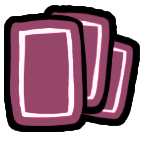
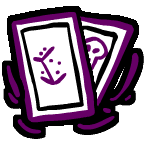
Rename Pope abilities to Cream Cake/Sanctify
Rename in-game Pope terminology and UI from canonize/Judgement/Divine Judgement to Give Cream Cake/Sanctify/Sanctified across code and locale files. Update button labels, modifier name, judgement system messages, task/animation names, emergency block text, and wiki/option strings in en_US and pl_PL. Also: adjust Sage role icon load size (70 -> 200), fix Joker clone button sprite reference, tweak Loner tab markup, add README credit entries (Pope icon & Sanctify button, Tarot asset), and update several image assets.

diff --git a/TouMegaChujoweExtension/Modules/PopeJudgementTask.cs b/TouMegaChujoweExtension/Modules/PopeJudgementTask.cs
@@ -137,7 +137,7 @@ public sealed class PopeJudgementTask(nint cppPtr) : PlayerTask(cppPtr)
 
                     if (deathAnim != null)
                     {
-                        deathAnim.name = "Judgement Animation";
+                        deathAnim.name = "Sanctify Animation";
                         deathAnim.SetActive(false);
                         var deathRend = deathAnim.GetComponent<SpriteRenderer>();
                         deathRend.color = new Color(0f, 0f, 0f, 0.17254903f);
@@ -207,16 +207,16 @@ public sealed class PopeJudgementTask(nint cppPtr) : PlayerTask(cppPtr)
             color = _even ? new Color(0.8f, 0.68f, 0f) : Color.white;
         }
 
-        var text = "Divine Judgement has been triggered!";
+        var text = "Sanctify has been triggered!";
         switch (_sabotage.Stage)
         {
             case PopeJudgementStage.Initiate:
                 text =
-                    $"The Pope is unleashing Divine Judgement!\n{(int)_sabotage.TimeRemaining + 1 + (int)PopeJudgementSystem.ConfiguredDuration} seconds left!";
+                    $"The Pope is unleashing Sanctify!\n{(int)_sabotage.TimeRemaining + 1 + (int)PopeJudgementSystem.ConfiguredDuration} seconds left!";
                 break;
             case PopeJudgementStage.Countdown:
                 text =
-                    $"The Pope is unleashing Divine Judgement!\n{(int)_sabotage.TimeRemaining + 1} seconds left!";
+                    $"The Pope is unleashing Sanctify!\n{(int)_sabotage.TimeRemaining + 1} seconds left!";
                 break;
             case PopeJudgementStage.PopeDead:
                 color = Palette.CrewmateBlue;

diff --git a/TouMegaChujoweExtension/Assets/TouExtensionIcons.cs b/TouMegaChujoweExtension/Assets/TouExtensionIcons.cs
@@ -14,7 +14,7 @@ namespace TouMegaChujoweExtension.Assets
         public static LoadableAsset<Sprite> VanisherRoleIcon { get; } = new LoadableResourceAsset("TouMegaChujoweExtension.Resources.Vanisher_Role_Icon.png", 200f);
         public static LoadableAsset<Sprite> BodyguardRoleIcon { get; } = new LoadableResourceAsset("TouMegaChujoweExtension.Resources.Bodyguard_Icon.png");
         public static LoadableAsset<Sprite> FalconRoleIcon { get; } = new LoadableResourceAsset("TouMegaChujoweExtension.Resources.Falcon_Role_Icon.png", 350f);
-        public static LoadableAsset<Sprite> SageRoleIcon { get; } = new LoadableResourceAsset("TouMegaChujoweExtension.Resources.Sage_Icon.png", 70f);
+        public static LoadableAsset<Sprite> SageRoleIcon { get; } = new LoadableResourceAsset("TouMegaChujoweExtension.Resources.Sage_Icon.png", 200f);
         public static LoadableAsset<Sprite> VampireHunterRoleIcon { get; } = new LoadableResourceAsset("TouMegaChujoweExtension.Resources.VampireHunter_Role_Icon.png", 100f);
         public static LoadableAsset<Sprite> DoctorRoleIcon { get; } = new LoadableResourceAsset("TouMegaChujoweExtension.Resources.Doctor_Role_Icon.png", 100f);
         public static LoadableAsset<Sprite> SpiritMasterIcon { get; } = new LoadableResourceAsset("TouMegaChujoweExtension.Resources.Spirit_Master_Icon.png", 100f);

diff --git a/TouMegaChujoweExtension/Buttons/Classic/Neutral/PopeButtons.cs b/TouMegaChujoweExtension/Buttons/Classic/Neutral/PopeButtons.cs
@@ -15,7 +15,7 @@ namespace TouMegaChujoweExtension.Buttons.Classic.Neutral;
 
 public sealed class PopeCanonizeButton : TownOfUsRoleButton<PopeRole, PlayerControl>
 {
-    public override string Name => TouLocale.GetParsed("ExtensionRolePopeCanonize", "Canonize");
+    public override string Name => TouLocale.GetParsed("ExtensionRolePopeCanonize", "Give Cream Cake");
     public override BaseKeybind Keybind => Keybinds.SecondaryAction;
     public override Color TextOutlineColor => TouExtensionColors.Pope;
     public override float Cooldown => Math.Clamp(OptionGroupSingleton<PopeOptions>.Instance.CanonizeCooldown + MapCooldown, 5f, 120f);
@@ -51,7 +51,7 @@ public sealed class PopeJudgementButton : TownOfUsRoleButton<PopeRole>
 {
     private static bool _triggered;
 
-    public override string Name => TouLocale.GetParsed("ExtensionRolePopeJudgement", "Judgement");
+    public override string Name => TouLocale.GetParsed("ExtensionRolePopeJudgement", "Sanctify");
     public override BaseKeybind Keybind => Keybinds.SecondaryAction;
     public override Color TextOutlineColor => TouExtensionColors.Pope;
     public override float Cooldown => 0.001f;

diff --git a/TouMegaChujoweExtension/Roles/Classic/Neutral/PopeRole.cs b/TouMegaChujoweExtension/Roles/Classic/Neutral/PopeRole.cs
@@ -41,10 +41,10 @@ public sealed class PopeRole(IntPtr cppPtr) : NeutralRole(cppPtr), ITownOfUsRole
     [HideFromIl2Cpp]
     public List<CustomButtonWikiDescription> Abilities =>
     [
-        new(TouLocale.GetParsed($"ExtensionRole{LocaleKey}Canonize", "Canonize"),
+        new(TouLocale.GetParsed($"ExtensionRole{LocaleKey}Canonize", "Give Cream Cake"),
             TouLocale.GetParsed($"ExtensionRole{LocaleKey}CanonizeWikiDescription"),
-            TouExtensionNeuAssets.PopeCanonizeButtonSprite),
-        new(TouLocale.GetParsed($"ExtensionRole{LocaleKey}Judgement", "Judgement"),
+            TouNeutAssets.ChefServeCakeSprite),
+        new(TouLocale.GetParsed($"ExtensionRole{LocaleKey}Judgement", "Sanctify"),
             TouLocale.GetParsed($"ExtensionRole{LocaleKey}JudgementWikiDescription"),
             TouExtensionNeuAssets.PopeJudgementButtonSprite)
     ];

diff --git a/TouMegaChujoweExtension/Modules/PopeJudgementSystem.cs b/TouMegaChujoweExtension/Modules/PopeJudgementSystem.cs
@@ -80,7 +80,7 @@ public sealed class PopeJudgementSystem(nint cppPtr) : Il2CppSystem.Object(cppPt
                             {
                                 player.Die(DeathReason.Kill, false);
                                 DeathHandlerModifier.UpdateDeathHandlerImmediate(player,
-                                    TouLocale.Get("ExtensionDiedToPopeJudgement", "Divine Judgement"),
+                                    TouLocale.Get("ExtensionDiedToPopeJudgement", "Sanctified"),
                                     DeathEventHandlers.CurrentRound,
                                     DeathHandlerOverride.SetTrue,
                                     TouLocale.GetParsed("ExtensionDiedByStringBasic", "Killed by <player>")

diff --git a/TouMegaChujoweExtension/Patches/Roles/Pope/PopeBlockEmergencyPatch.cs b/TouMegaChujoweExtension/Patches/Roles/Pope/PopeBlockEmergencyPatch.cs
@@ -14,7 +14,7 @@ public static class PopeBlockEmergencyPatch
         var sabo = ShipStatus.Instance.Systems[sabId].TryCast<PopeJudgementSystem>();
         if (sabo != null && sabo.IsActive)
         {
-            __instance.StatusText.text = "Divine Judgement is active!";
+            __instance.StatusText.text = "Sanctify is active!";
             __instance.NumberText.text = string.Empty;
             
             __instance.ButtonActive = false;

diff --git a/TouMegaChujoweExtension/Roles/Classic/Neutral/JokerRole.cs b/TouMegaChujoweExtension/Roles/Classic/Neutral/JokerRole.cs
@@ -52,7 +52,7 @@ public sealed class JokerRole(IntPtr cppPtr) : NeutralRole(cppPtr), ITownOfUsRol
     [
         new(TouLocale.GetParsed("ExtensionRoleJokerPlaceCloneWiki", "Place Clone"),
             TouLocale.GetParsed("ExtensionRoleJokerPlaceCloneWikiDescription"),
-            TouExtensionCrewAssets.DecoyButtonSprite)
+            TouExtensionNeuAssets.JokerCloneButtonSprite)
     ];
 
     public Color RoleColor => TouExtensionColors.Joker;

diff --git a/TouMegaChujoweExtension/Modifiers/Neutral/PopeCanonizedModifier.cs b/TouMegaChujoweExtension/Modifiers/Neutral/PopeCanonizedModifier.cs
@@ -9,7 +9,7 @@ public sealed class PopeCanonizedModifier(PlayerControl pope) : BaseModifier
     public bool HasSpread { get; set; }
     private readonly Color _color = TouExtensionColors.Pope;
 
-    public override string ModifierName => "Canonized";
+    public override string ModifierName => "Cream Cake";
     public override bool HideOnUi => true;
 
     public override void FixedUpdate()

diff --git a/README.md b/README.md
@@ -276,7 +276,8 @@ https://github.com/user-attachments/assets/d7a01fdc-148b-4a66-bbf1-6043da6a9b04
 > **Huge shoutout to Atony**, creator of Town of Us: Mira — roughly 80% of the art assets used in this mod originate from his work, various TOU Mira builds, and resources shared on the TOU Mira Discord. We are extremely grateful for his incredible contributions to the community.
 
 - **Asterisken** - Art for Injector, Trapper, Clueless, Mirage, Charlatan, Vulture, Forestaller, Spiteful, Objection Button, and Bodyguard Guard button
-- **CraftR / Town of Us Discord** - Pirate role icon & Pirate Duel button; Baker role icon and bread assets
+- **CraftR / Town of Us Discord** - Pirate role icon & Pirate Duel button; Baker role icon and bread assets; Pope role icon and Sanctify button
+- **Xinav's** - Tarot card asset
 - **Atony / Town of Us: Mira / Town Of Us Discord** - Art for Serial Killer, Kamikaze, Loner, Joker, Burrower, Lawyer, Witch, Wraith, Doctor, RC-XD, Portalmaker, Vanisher, Vampire Hunter, Bodyguard, Bounty Hunter, Pelican, Doppelganger, Speedy, Astral, Sniper, and Detonator role icons; Shifter role icon & button; Sage role icon (Seer button from TOU Mira); Sage ability buttons (Salem option buttons from Seer); Bodyguard shield animation (repainted Warden shield from TOU Mira 1.5.9); Poisoner role icon & all Poisoner button icons; Evoker Verify button icon; Drunk modifier icon (from TOU Mira Discord); Venomous modifier icon (flipped & recolored Rotting modifier from TOU Mira)
 - **Atony / TOU Mira Fusion** - Vampire Hunter stake button
 - **[TownOfUsMiraDivaniModsAddOn](https://github.com/DivaniNL/TownOfUsMiraDivaniModsAddOn) / DivaniNL** - Art for Kamikaze role icon; Portal asset
@@ -295,7 +296,7 @@ https://github.com/user-attachments/assets/d7a01fdc-148b-4a66-bbf1-6043da6a9b04
 - **Innersloth & Puffballs United** - Draft music ("Seek")
 - **Tajemniczy Among Us (Tajemniczy Typiarz)** - Draft pick sound, Draft alert sound
 - **Death Note (anime)** - Death Note kill sound (Light's laugh)
-- **YouTube** - Pope alarm & Judgement end sounds (from Divine Judgement concept videos)
+- **YouTube** - Pope alarm & Sanctify end sounds
 - **Star Wars** - Bounty Hunter intro sound
 - **Max Verstappen memes** - RC-XD intro sound (song fragment)
 - **Free sound library** - RC-XD driving sound
